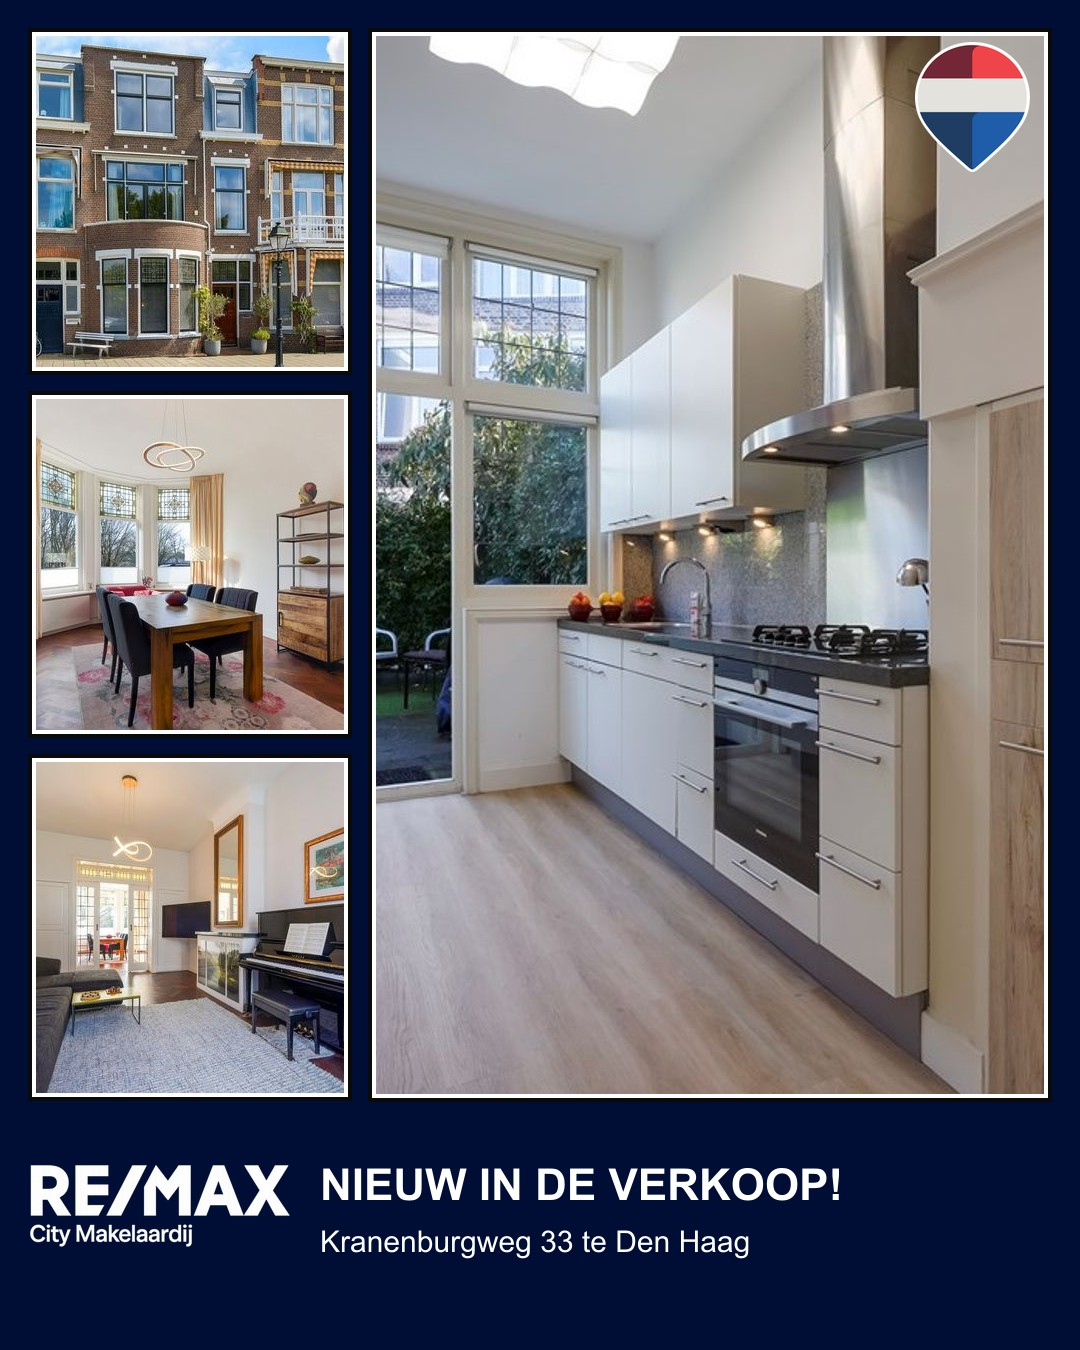
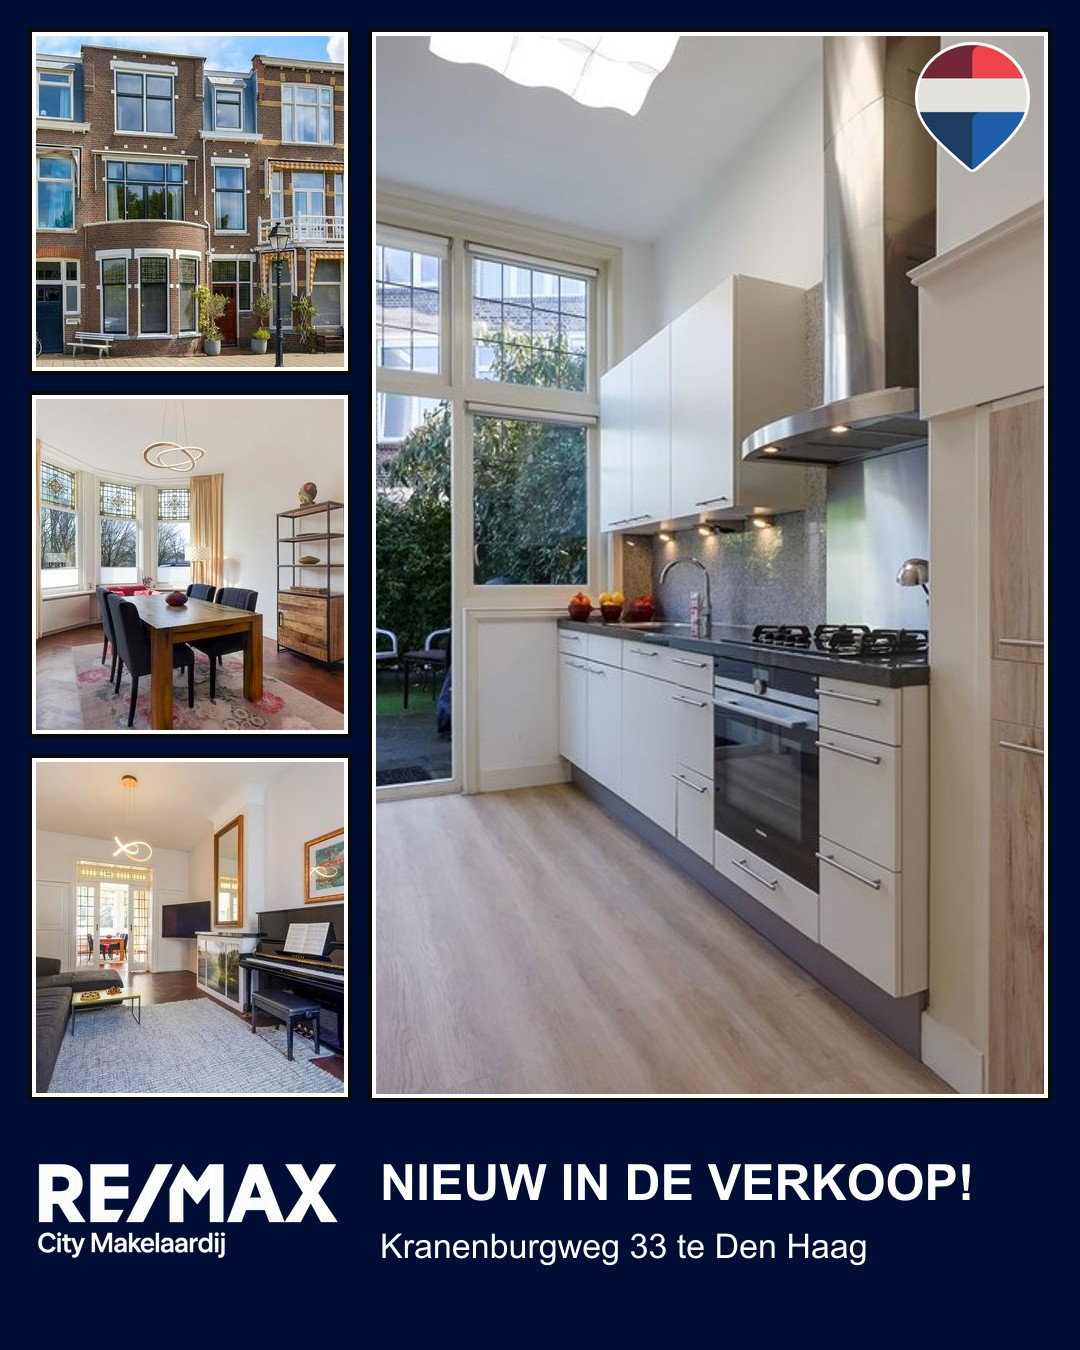
Update layout v3

Changed region(s): [[0.0306, 0.84, 0.9167, 0.9333]]

diff --git a/ig-demo/scripts/render-image.js b/ig-demo/scripts/render-image.js
@@ -20,6 +20,7 @@ const {
   HEADLINE_TEXT = "NIEUW IN DE VERKOOP!",
   SUBHEADLINE_TEXT,
   LOGO_OFFSET_Y = "0",
+  LOGO_OFFSET_X = "0",
 } = process.env;
 
 function requireEnv(name, value) {
@@ -138,8 +139,8 @@ async function render() {
     throw new Error("One or more listing images could not be loaded.");
   }
 
-  const logoWidth = 260;
-  const logoHeight = 120;
+  const logoWidth = 300;
+  const logoHeight = 140;
   const logoBuffer = await loadImageBuffer(
     LOGO_PATH,
     {
@@ -162,12 +163,13 @@ async function render() {
   const headline = normalizeString(HEADLINE_TEXT) || "NIEUW IN DE VERKOOP!";
   const subheadline = buildSubheadline();
 
-  const headlineFontSize = 44;
+  const headlineFontSize = 50;
   const headlineAscent = 0.8; // approximate ascent ratio for baseline alignment
-  const textX = margin + logoWidth + 30;
+  const textX = margin + logoWidth + 50;
   const textY = canvasH - bottomH + 70;
   const headlineTop = textY - headlineFontSize * headlineAscent;
   const logoYOffset = Number(LOGO_OFFSET_Y) || 0;
+  const logoXOffset = Number(LOGO_OFFSET_X) || 0;
   const logoY = Math.round(headlineTop + logoYOffset);
 
   const overlaySvg = `
@@ -186,7 +188,7 @@ async function render() {
   <text x="${textX}" y="${textY}" font-family="Arial, sans-serif" font-size="${headlineFontSize}" font-weight="800" fill="${textColor}">
     ${escapeXml(headline)}
   </text>
-  ${subheadline ? `<text x="${textX}" y="${textY + 52}" font-family="Arial, sans-serif" font-size="30" font-weight="400" fill="${textColor}">${escapeXml(subheadline)}</text>` : ""}
+  ${subheadline ? `<text x="${textX}" y="${textY + 58}" font-family="Arial, sans-serif" font-size="34" font-weight="400" fill="${textColor}">${escapeXml(subheadline)}</text>` : ""}
 </svg>`;
 
   const outputPath = path.resolve(OUTPUT_IMAGE_PATH);
@@ -219,7 +221,7 @@ async function render() {
   if (logoBuffer) {
     composites.push({
       input: logoBuffer,
-      left: margin,
+      left: margin + logoXOffset,
       top: logoY,
     });
   }

diff --git a/ig-demo/scripts/post.js b/ig-demo/scripts/post.js
@@ -16,6 +16,7 @@ const {
   ENERGY_LABEL,
   LISTING_URL,
   CONTACT_PHONE,
+  CONTACT_MOBILE,
   CONTACT_EMAIL,
   HASHTAGS,
   CTA_LINE,
@@ -55,7 +56,8 @@ function buildCaption() {
   const rooms = ROOMS?.trim();
   const label = ENERGY_LABEL?.trim();
   const url = LISTING_URL?.trim();
-  const phone = CONTACT_PHONE?.trim() || "070-21 70 271";
+  const phone = "070-21 70 271";
+  const mobile = CONTACT_MOBILE?.trim();
   const email = CONTACT_EMAIL?.trim() || "city@remax.nl";
   const hashtags = HASHTAGS?.trim() ||
     "#tekoop #woning #makelaar #luxewonen #nieuwaanbod #vastgoed";
@@ -86,6 +88,7 @@ function buildCaption() {
     cta,
     "",
     phone ? `T: ${phone}` : null,
+    mobile ? `M: ${mobile}` : null,
     email ? `E: ${email}` : null,
     "",
     hashtags,

diff --git a/ig-demo/scripts/apply-from-json.js b/ig-demo/scripts/apply-from-json.js
@@ -112,6 +112,7 @@ async function main() {
     ENERGY_LABEL: normalizeString(listing.energyLabel),
     LISTING_URL: normalizeString(listingUrl),
     CONTACT_PHONE: normalizeString(listing.contactPhone || listing.contactMobile),
+    CONTACT_MOBILE: normalizeString(listing.contactMobile),
     CONTACT_EMAIL: normalizeString(listing.contactEmail),
     DESCRIPTION_TEXT: description,
     IMAGE_TOP_LEFT: imageTopLeft,
